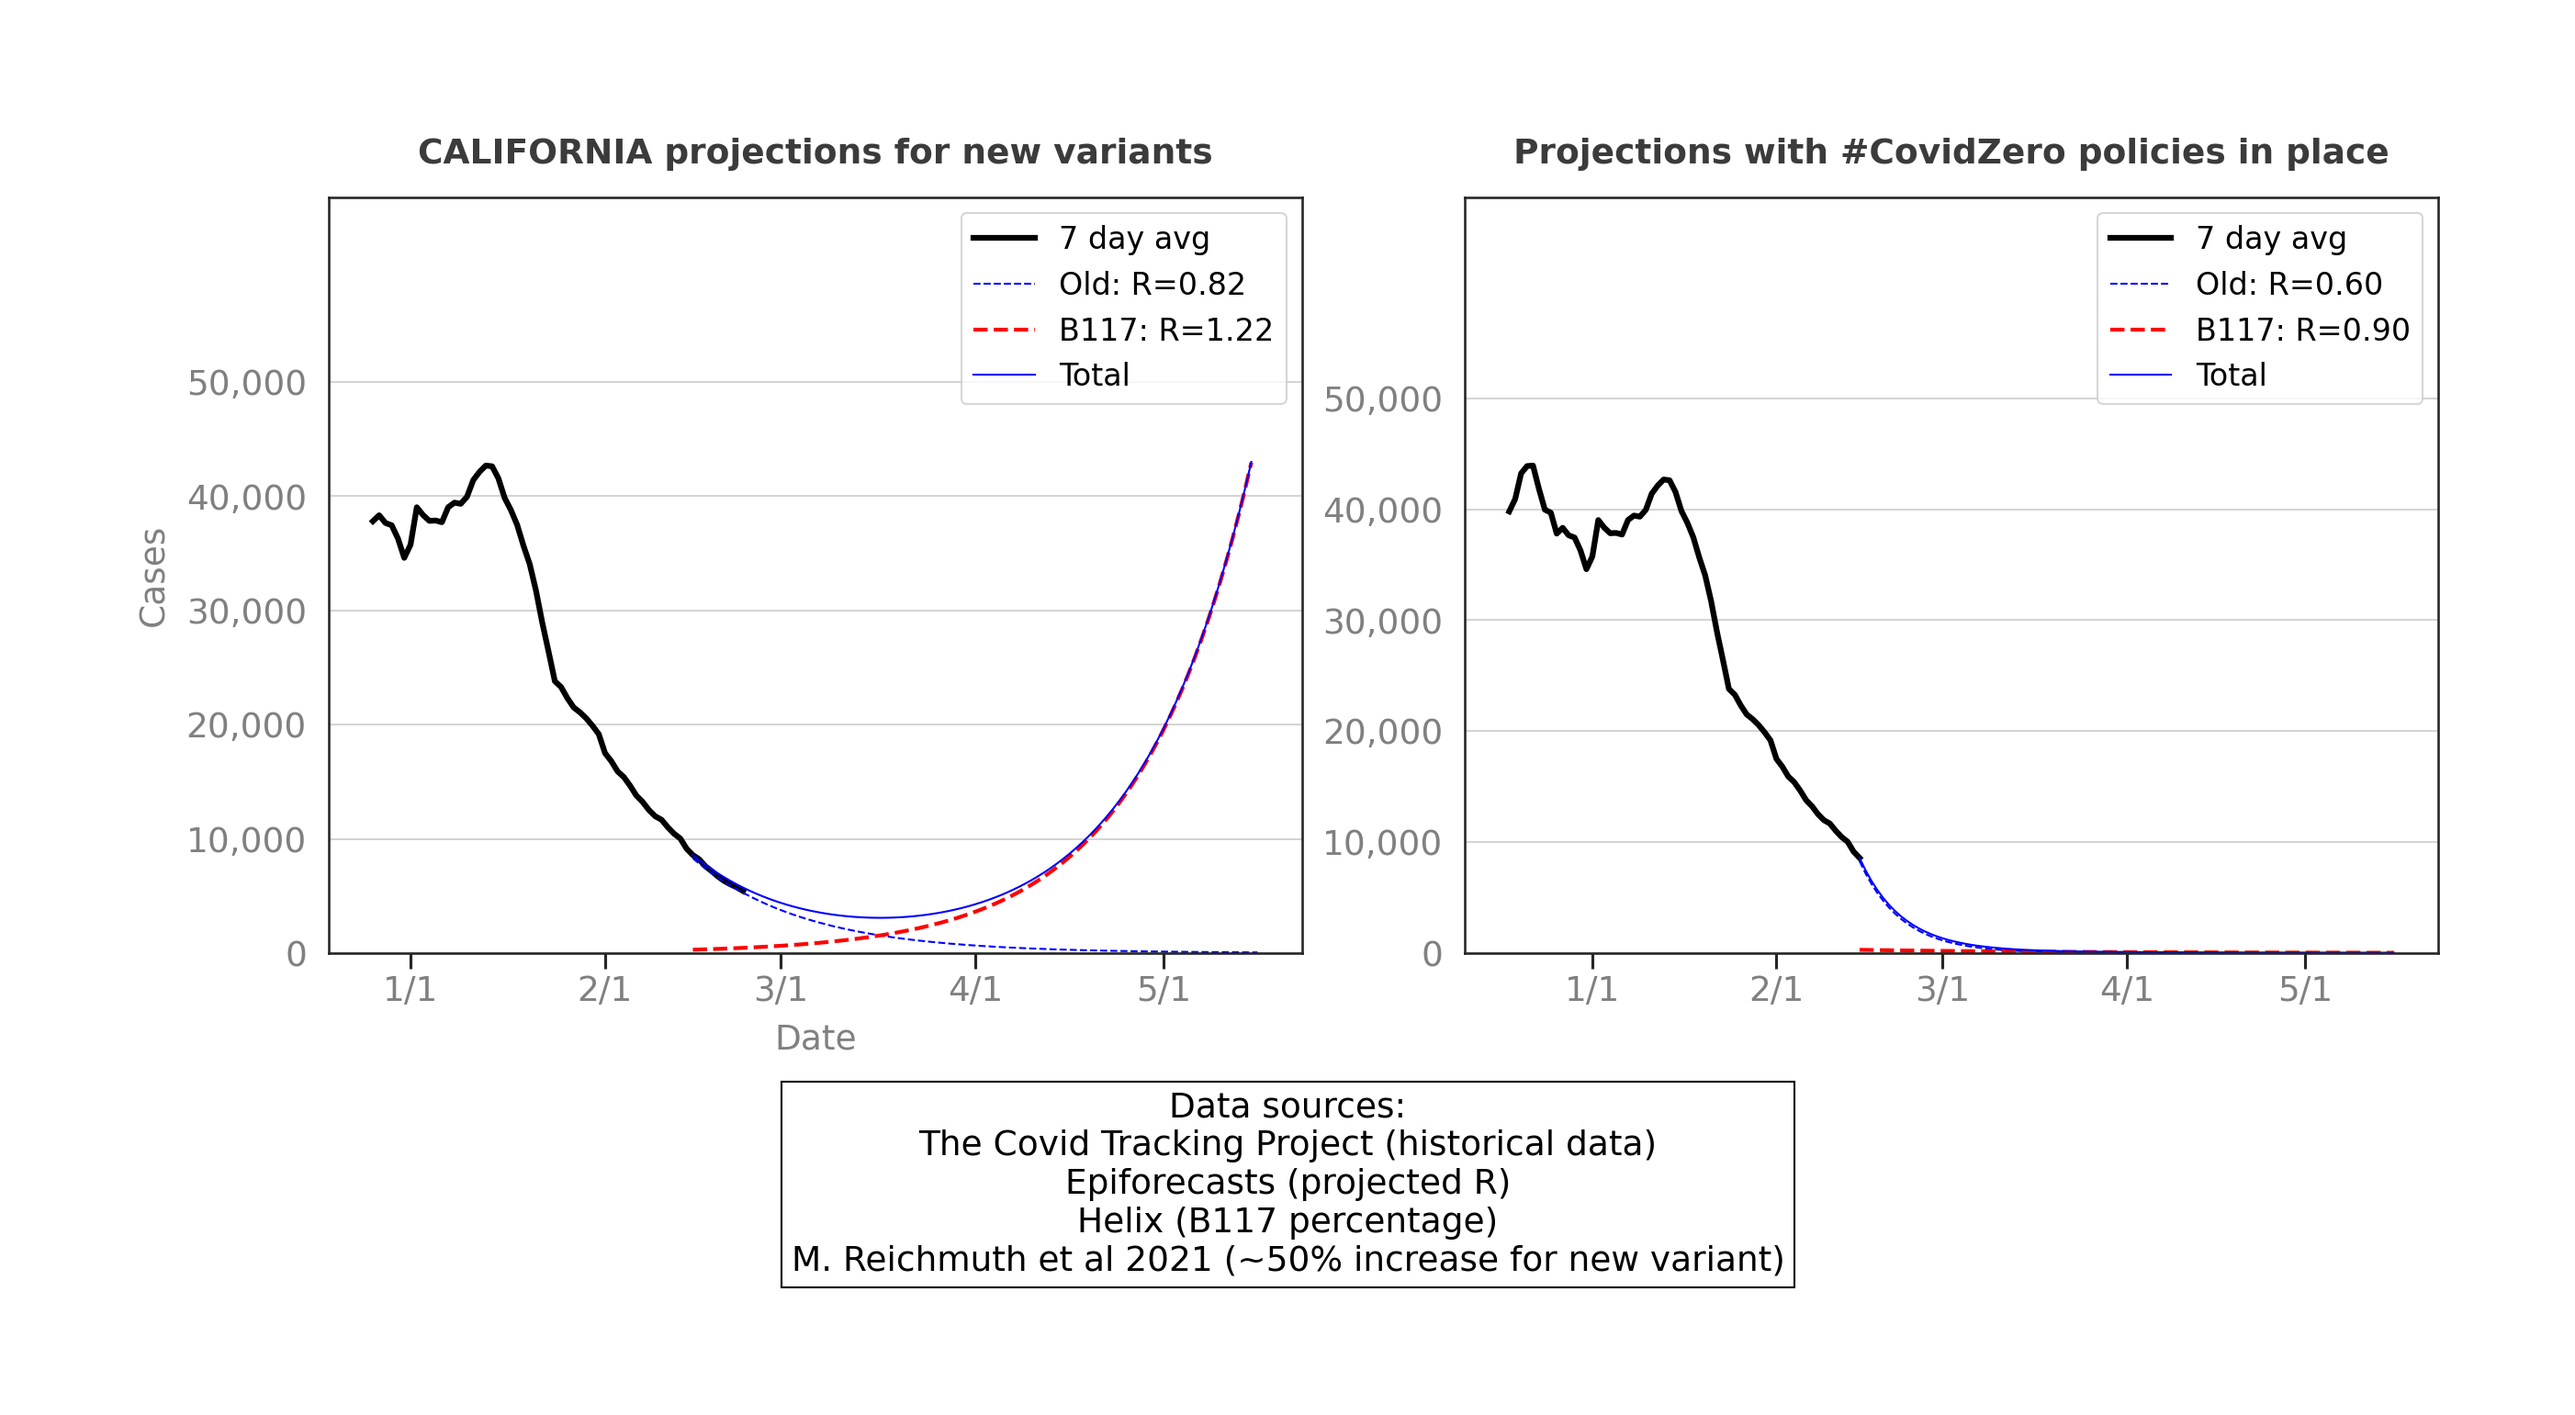
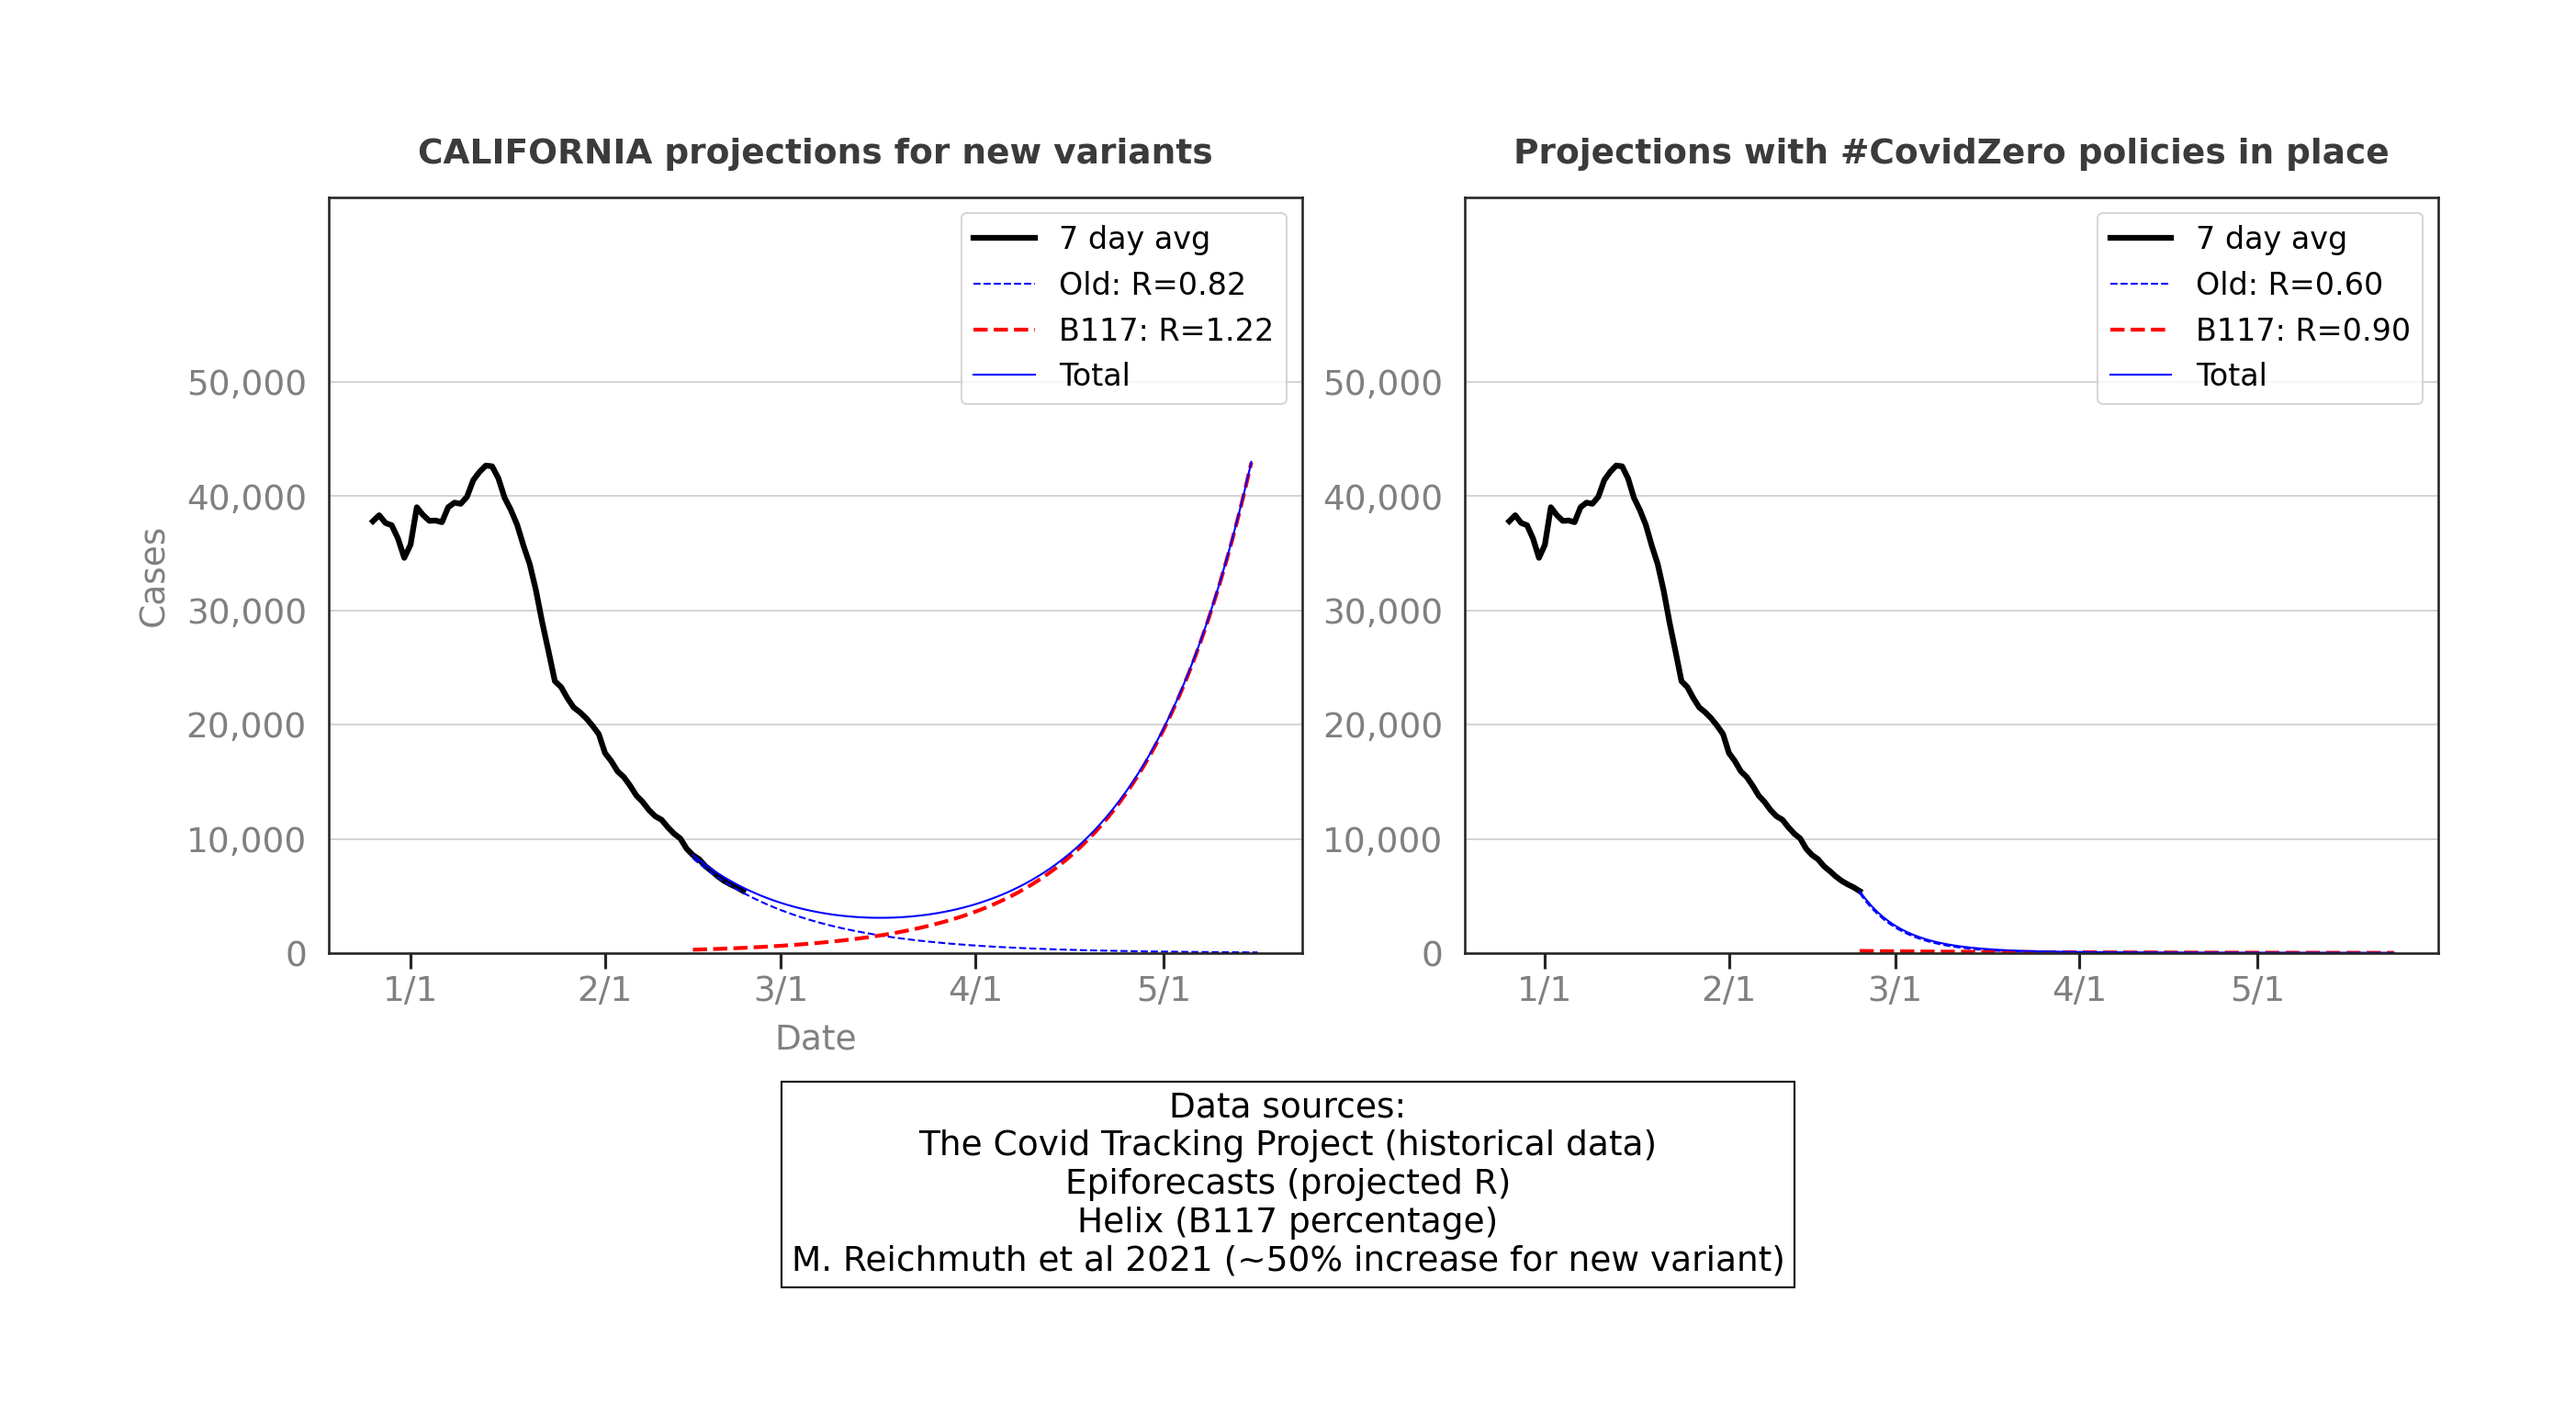
Updated covidzero chart to use same date.

diff --git a/new_variant_estimate.py b/new_variant_estimate.py
@@ -193,7 +193,10 @@ def makeSubChart(df_historical, df_r_estimates, state, R_covid, R_variant,
 
     historical_start_date = df_historical['date'][0]
 
-    projection_start_date = datetime.datetime(2021, 2, 15)
+    if(current):
+      projection_start_date = datetime.datetime(2021, 2, 15)
+    else:
+      projection_start_date = datetime.datetime(2021, 2, 23)
 
     projection_overlap = int((historical_start_date - projection_start_date).days)
 
